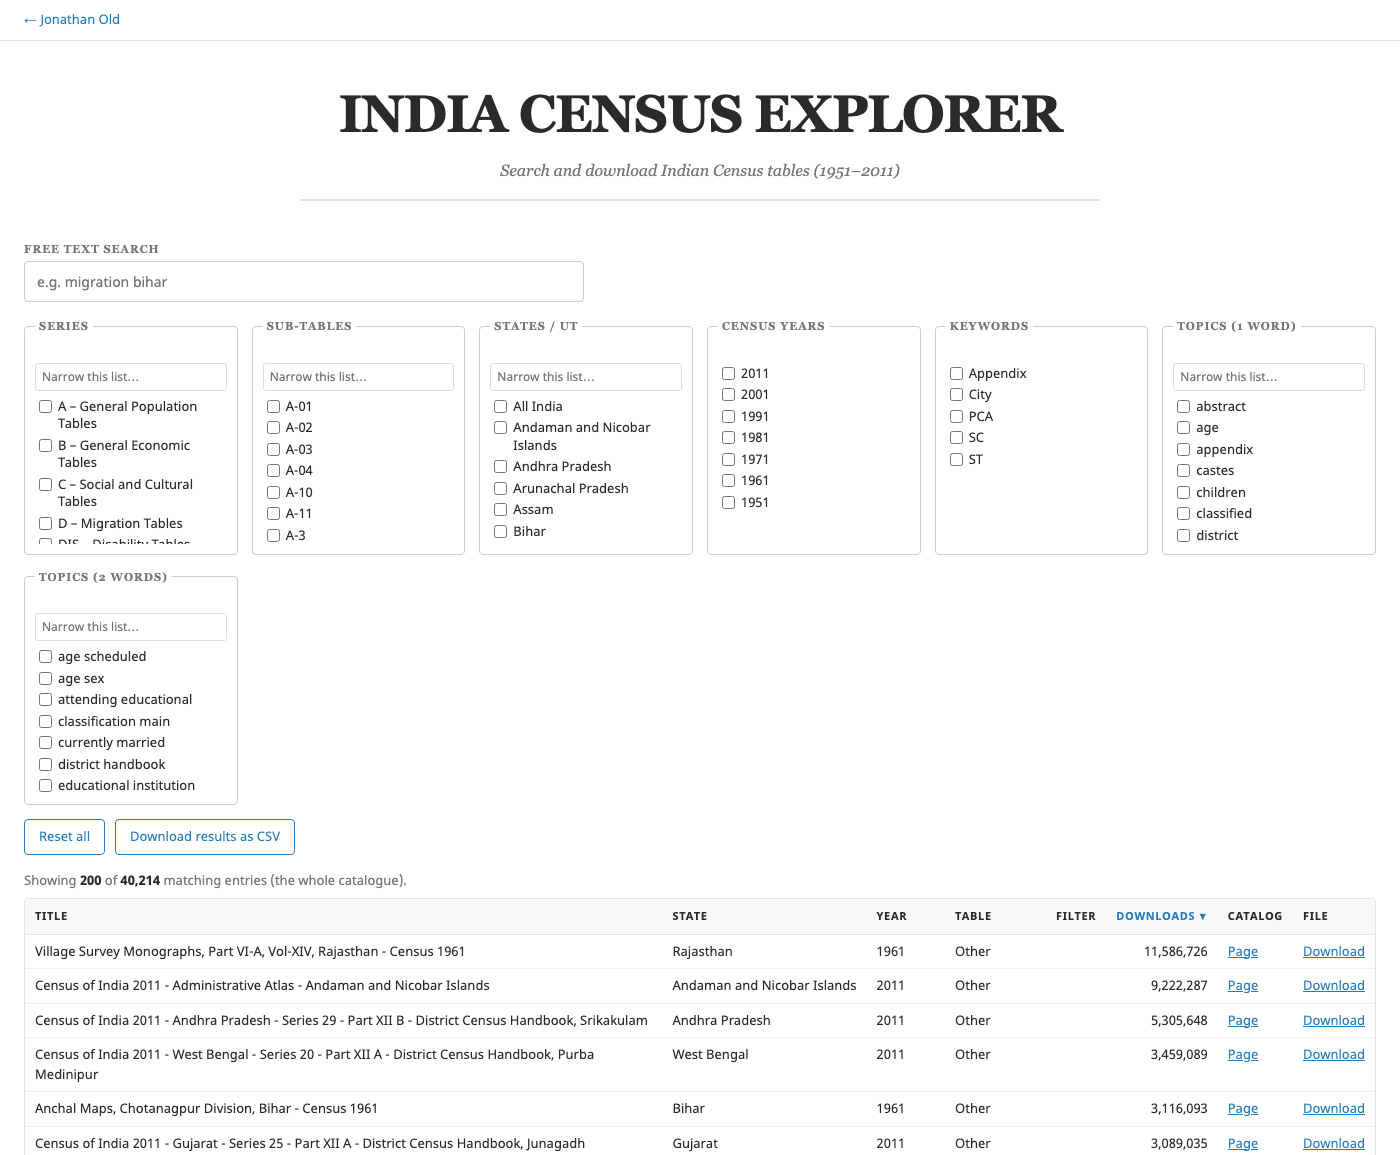
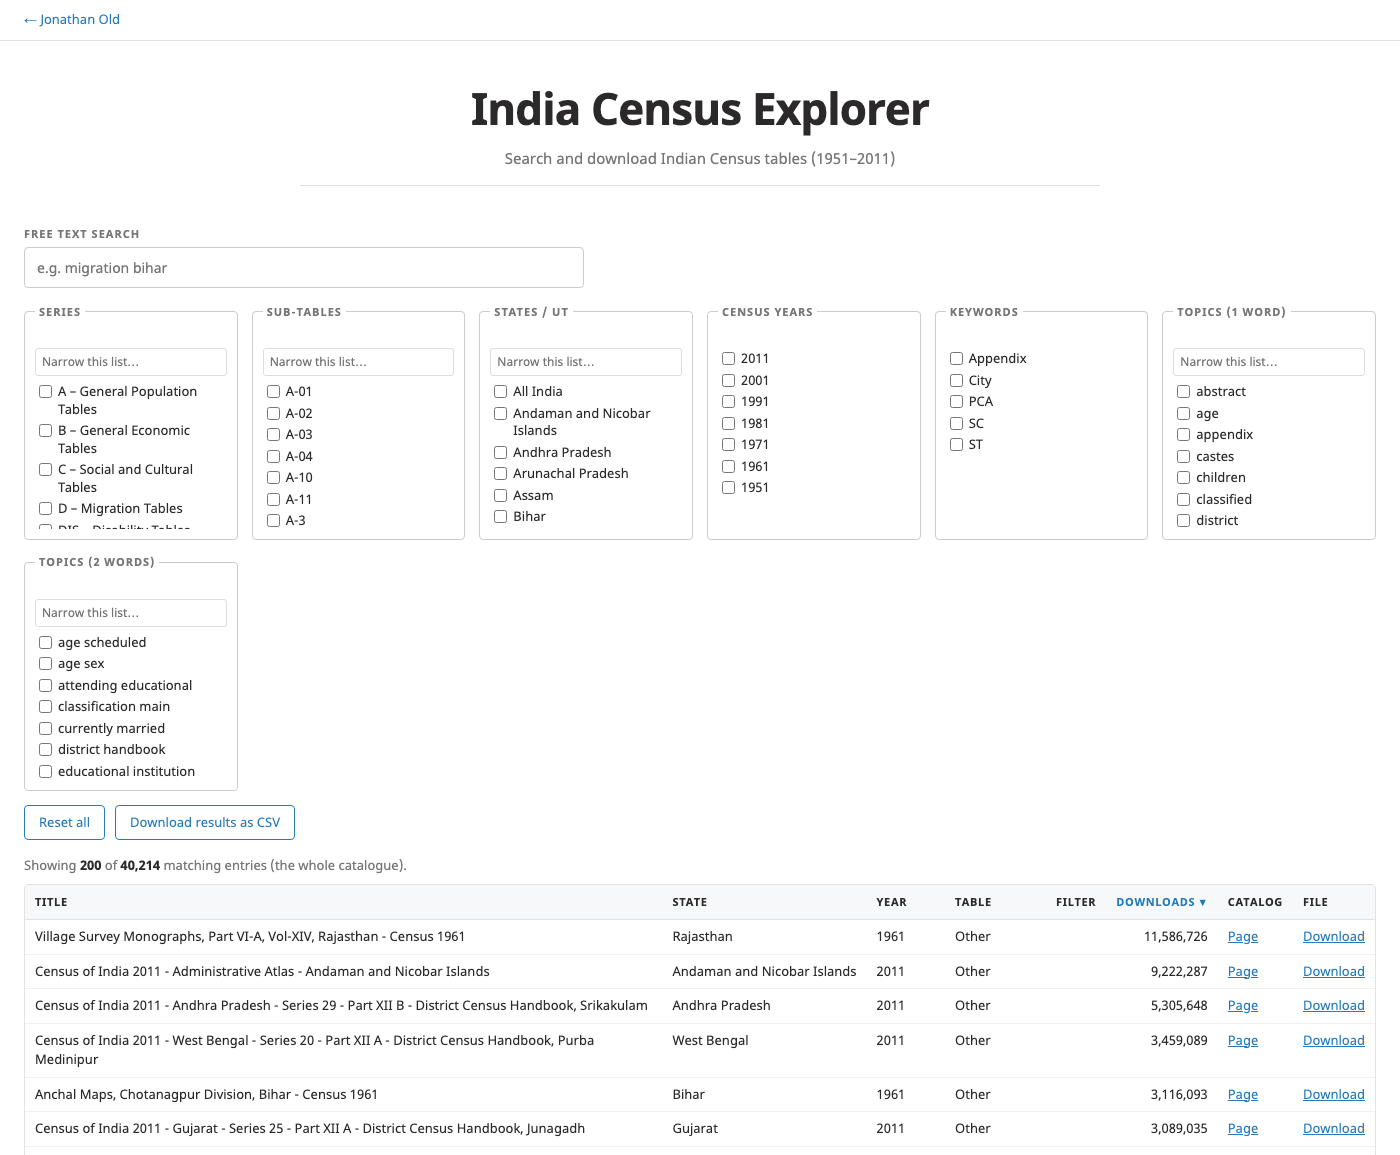
Set the Census Explorer in one clean sans
The title was Playfair Display with a Georgia fallback -- and since the
font was never actually loaded, it was always rendering as Georgia.  Under
it, the labels, legends and footer were Georgia too, so the page carried a
display serif it had not asked for.

It is now the site's own Noto Sans throughout, with the title in normal
case and tighter tracking rather than letterspaced uppercase, and the
subtitle a plain line instead of serif italic.

diff --git a/docs/css/census.css b/docs/css/census.css
@@ -18,7 +18,7 @@
 
 /* India Census Explorer.  A standalone full-width page, so it does not inherit
    the site's style.css; the family and the blue are the site's, and the
-   Playfair title keeps the look the Streamlit version had. */
+   whole page is set in it: one clean sans rather than a display serif. */
 
 :root {
   --ink: #2b2929;
@@ -49,22 +49,18 @@ body.appbody {
 .cx-head { padding: 34px 24px 18px; text-align: center; }
 
 .cx-head h1 {
-  font-family: 'Playfair Display', Georgia, serif;
   font-weight: 700;
-  font-size: clamp(28px, 5vw, 52px);
-  letter-spacing: -1px;
-  text-transform: uppercase;
+  font-size: clamp(26px, 4.4vw, 44px);
+  letter-spacing: -0.02em;
   margin: 0 0 6px; }
 
 .cx-sub {
-  font-family: Georgia, serif;
-  font-style: italic;
-  font-size: 16px;
+  font-size: 15px;
   color: var(--muted);
   margin: 0 auto;
   padding-bottom: 16px;
   max-width: 800px;
-  border-bottom: 2px solid var(--line); }
+  border-bottom: 1px solid var(--line); }
 
 .cx { padding: 0 24px 40px; }
 
@@ -75,10 +71,9 @@ body.appbody {
 .cx-search { margin-bottom: 16px; }
 
 /* Only the free-text label: the checkbox rows are labels too, and were being
-   set in bold uppercase Georgia along with it. */
+   set in bold uppercase along with it. */
 .cx-search label {
   display: block;
-  font-family: Georgia, serif;
   font-weight: 700;
   text-transform: uppercase;
   font-size: 11px;
@@ -115,7 +110,6 @@ body.appbody {
 
 .cx-filter legend {
   padding: 0 4px;
-  font-family: Georgia, serif;
   font-weight: 700;
   text-transform: uppercase;
   font-size: 11px;
@@ -245,7 +239,6 @@ body.appbody {
 .cx-foot {
   border-top: 1px solid var(--line);
   padding: 20px 24px 40px;
-  font-family: Georgia, serif;
   font-size: 12px;
   color: var(--muted);
   text-align: center; }

diff --git a/static/css/census.css b/static/css/census.css
@@ -18,7 +18,7 @@
 
 /* India Census Explorer.  A standalone full-width page, so it does not inherit
    the site's style.css; the family and the blue are the site's, and the
-   Playfair title keeps the look the Streamlit version had. */
+   whole page is set in it: one clean sans rather than a display serif. */
 
 :root {
   --ink: #2b2929;
@@ -49,22 +49,18 @@ body.appbody {
 .cx-head { padding: 34px 24px 18px; text-align: center; }
 
 .cx-head h1 {
-  font-family: 'Playfair Display', Georgia, serif;
   font-weight: 700;
-  font-size: clamp(28px, 5vw, 52px);
-  letter-spacing: -1px;
-  text-transform: uppercase;
+  font-size: clamp(26px, 4.4vw, 44px);
+  letter-spacing: -0.02em;
   margin: 0 0 6px; }
 
 .cx-sub {
-  font-family: Georgia, serif;
-  font-style: italic;
-  font-size: 16px;
+  font-size: 15px;
   color: var(--muted);
   margin: 0 auto;
   padding-bottom: 16px;
   max-width: 800px;
-  border-bottom: 2px solid var(--line); }
+  border-bottom: 1px solid var(--line); }
 
 .cx { padding: 0 24px 40px; }
 
@@ -75,10 +71,9 @@ body.appbody {
 .cx-search { margin-bottom: 16px; }
 
 /* Only the free-text label: the checkbox rows are labels too, and were being
-   set in bold uppercase Georgia along with it. */
+   set in bold uppercase along with it. */
 .cx-search label {
   display: block;
-  font-family: Georgia, serif;
   font-weight: 700;
   text-transform: uppercase;
   font-size: 11px;
@@ -115,7 +110,6 @@ body.appbody {
 
 .cx-filter legend {
   padding: 0 4px;
-  font-family: Georgia, serif;
   font-weight: 700;
   text-transform: uppercase;
   font-size: 11px;
@@ -245,7 +239,6 @@ body.appbody {
 .cx-foot {
   border-top: 1px solid var(--line);
   padding: 20px 24px 40px;
-  font-family: Georgia, serif;
   font-size: 12px;
   color: var(--muted);
   text-align: center; }

diff --git a/docs/census/index.html b/docs/census/index.html
@@ -17,7 +17,7 @@
     <script data-goatcounter="https://jonathanold.goatcounter.com/count"
       async src="//gc.zgo.at/count.js"></script>
     <link rel="shortcut icon" type="image/x-icon" href="../favicon.ico">
-    <link rel="stylesheet" href="../css/census.css?v=02caa92b">
+    <link rel="stylesheet" href="../css/census.css?v=477b3403">
     <script>window.CENSUS_DATA = "\/data\/census.json?v=1326da62";</script>
   </head>
   <body class="appbody">
